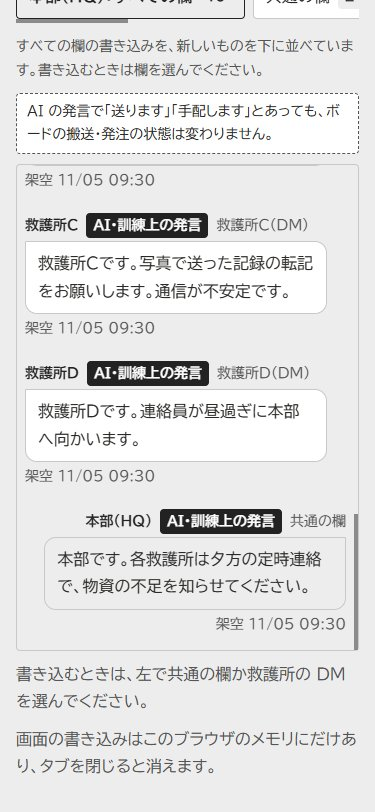
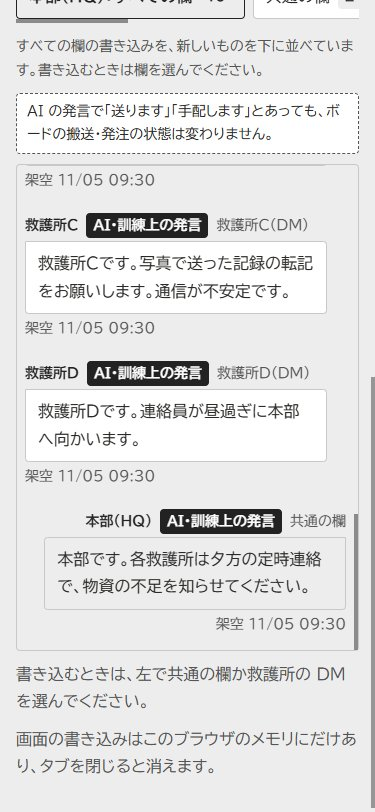
吹き出しの角を Issue #143 の決まり（4px まで）に合わせ、スクリーンショットを撮り直す（Issue #161）

Changed region(s): [[0.968, 0.4618, 1.0, 1.0]]

diff --git a/web/src/board/chat/chat.css b/web/src/board/chat/chat.css
@@ -357,13 +357,13 @@
   max-width: 100%;
   box-sizing: border-box;
 }
-/* 吹き出しの角：救護所は左上、本部は右上を尖らせる */
+/* 吹き出しの角：救護所は左上、本部は右上を尖らせる。ほかの角は Issue #143 の決まり（4px まで）に合わせる */
 .board-chat-post.side-site .board-chat-bubble {
-  border-radius: 0 12px 12px 12px;
+  border-radius: 0 4px 4px 4px;
   background: var(--surface);
 }
 .board-chat-post.side-hq .board-chat-bubble {
-  border-radius: 12px 0 12px 12px;
+  border-radius: 4px 0 4px 4px;
   background: var(--cream);
 }
 .board-chat-post.side-hq.mine .board-chat-bubble {
